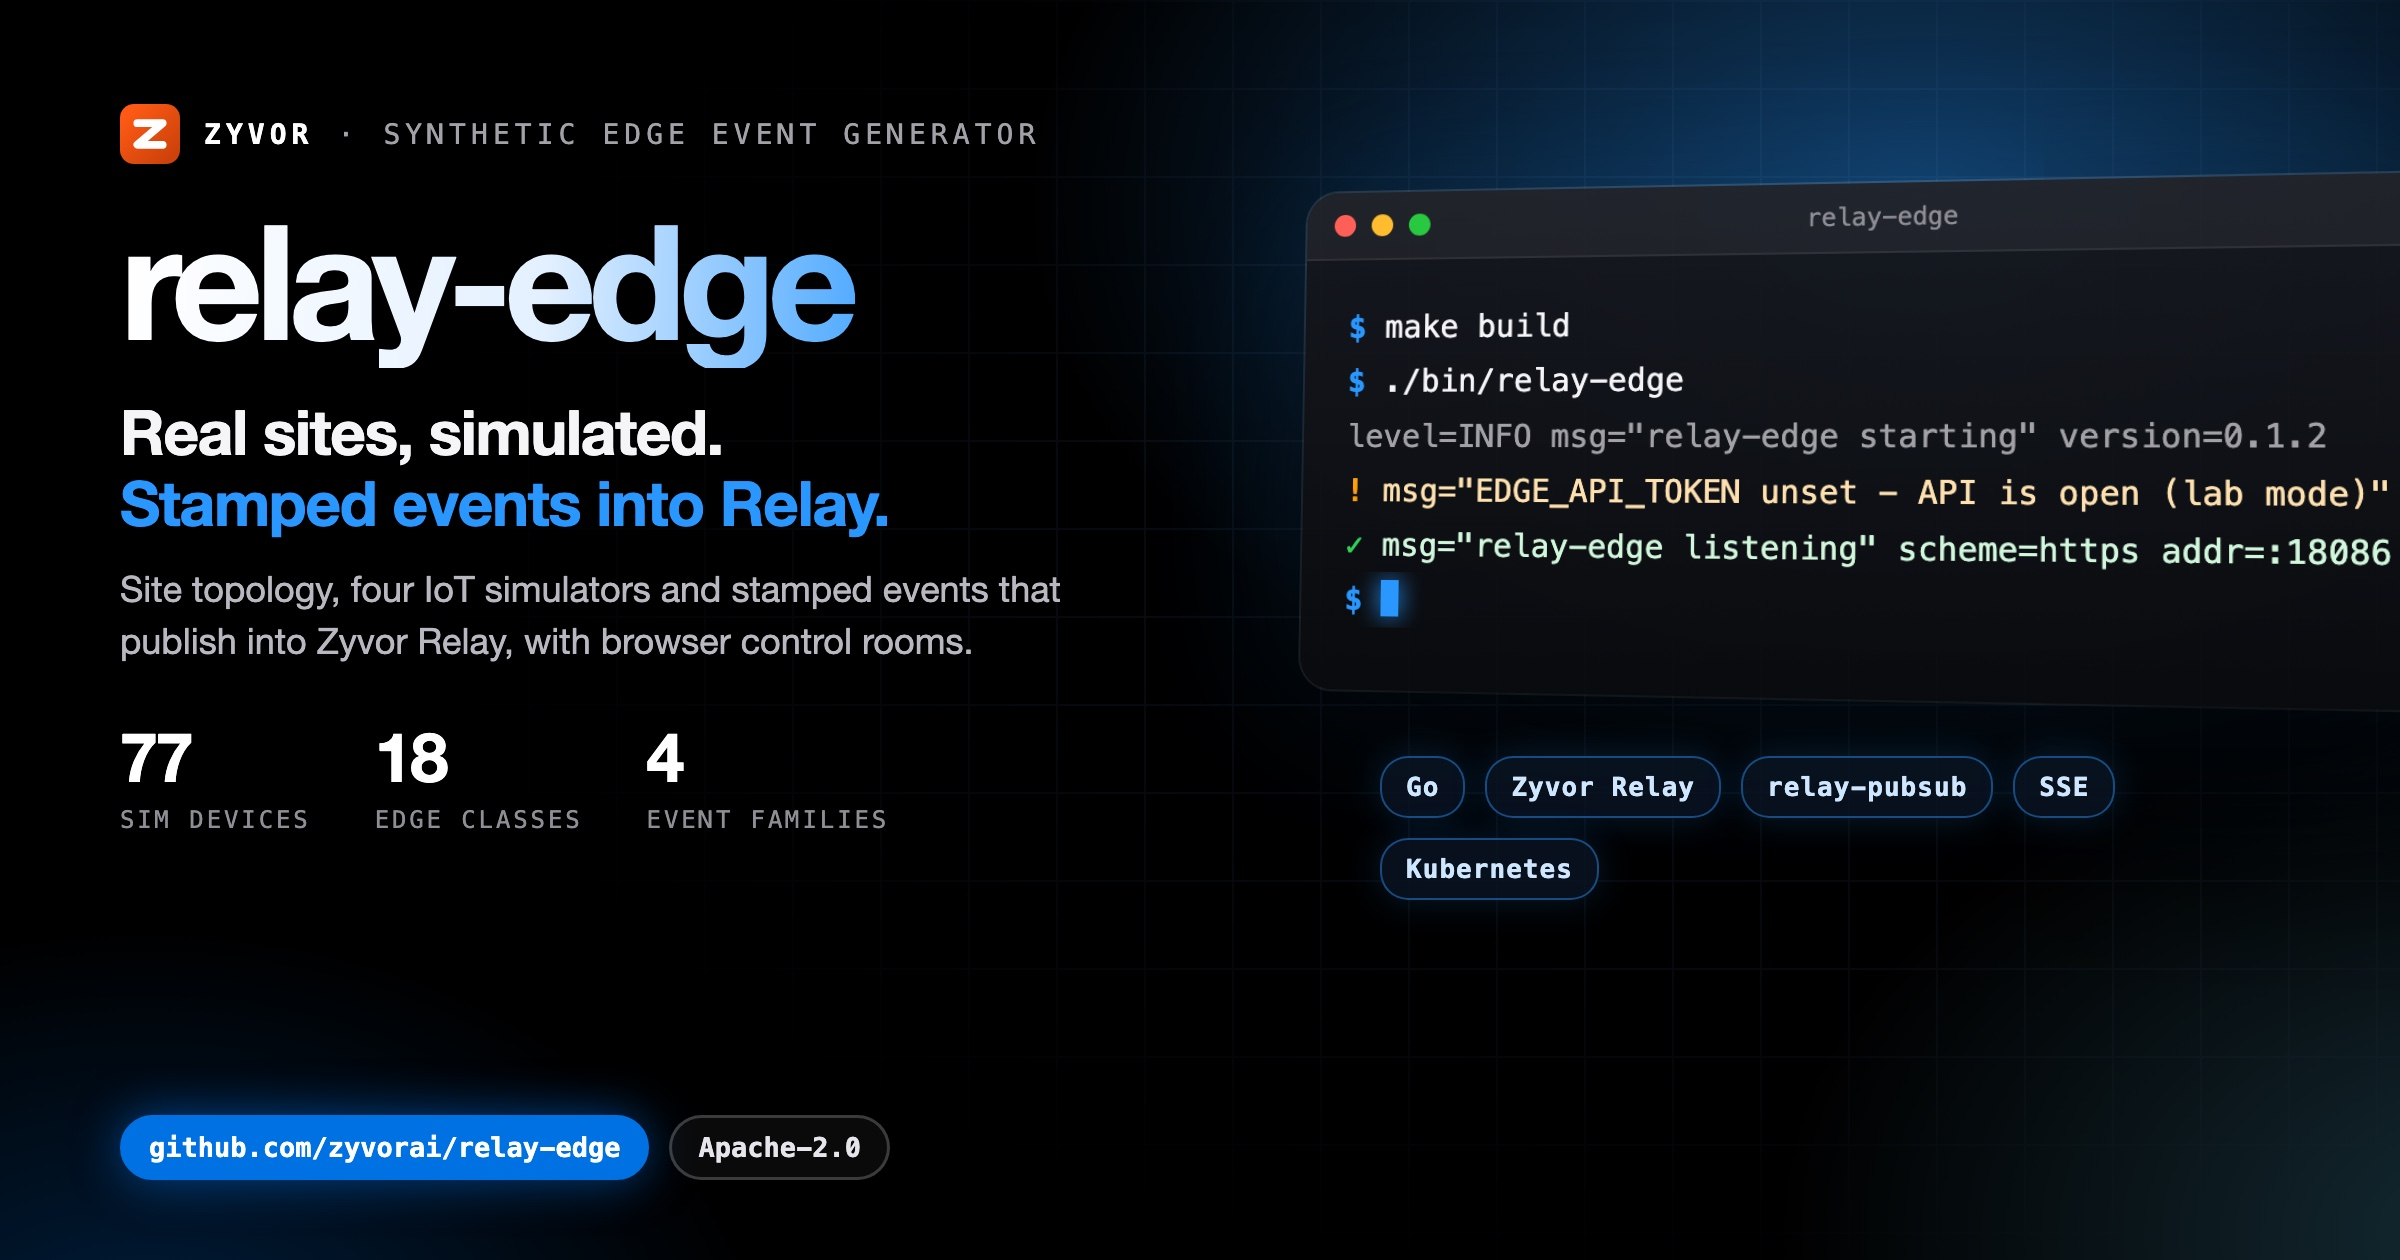
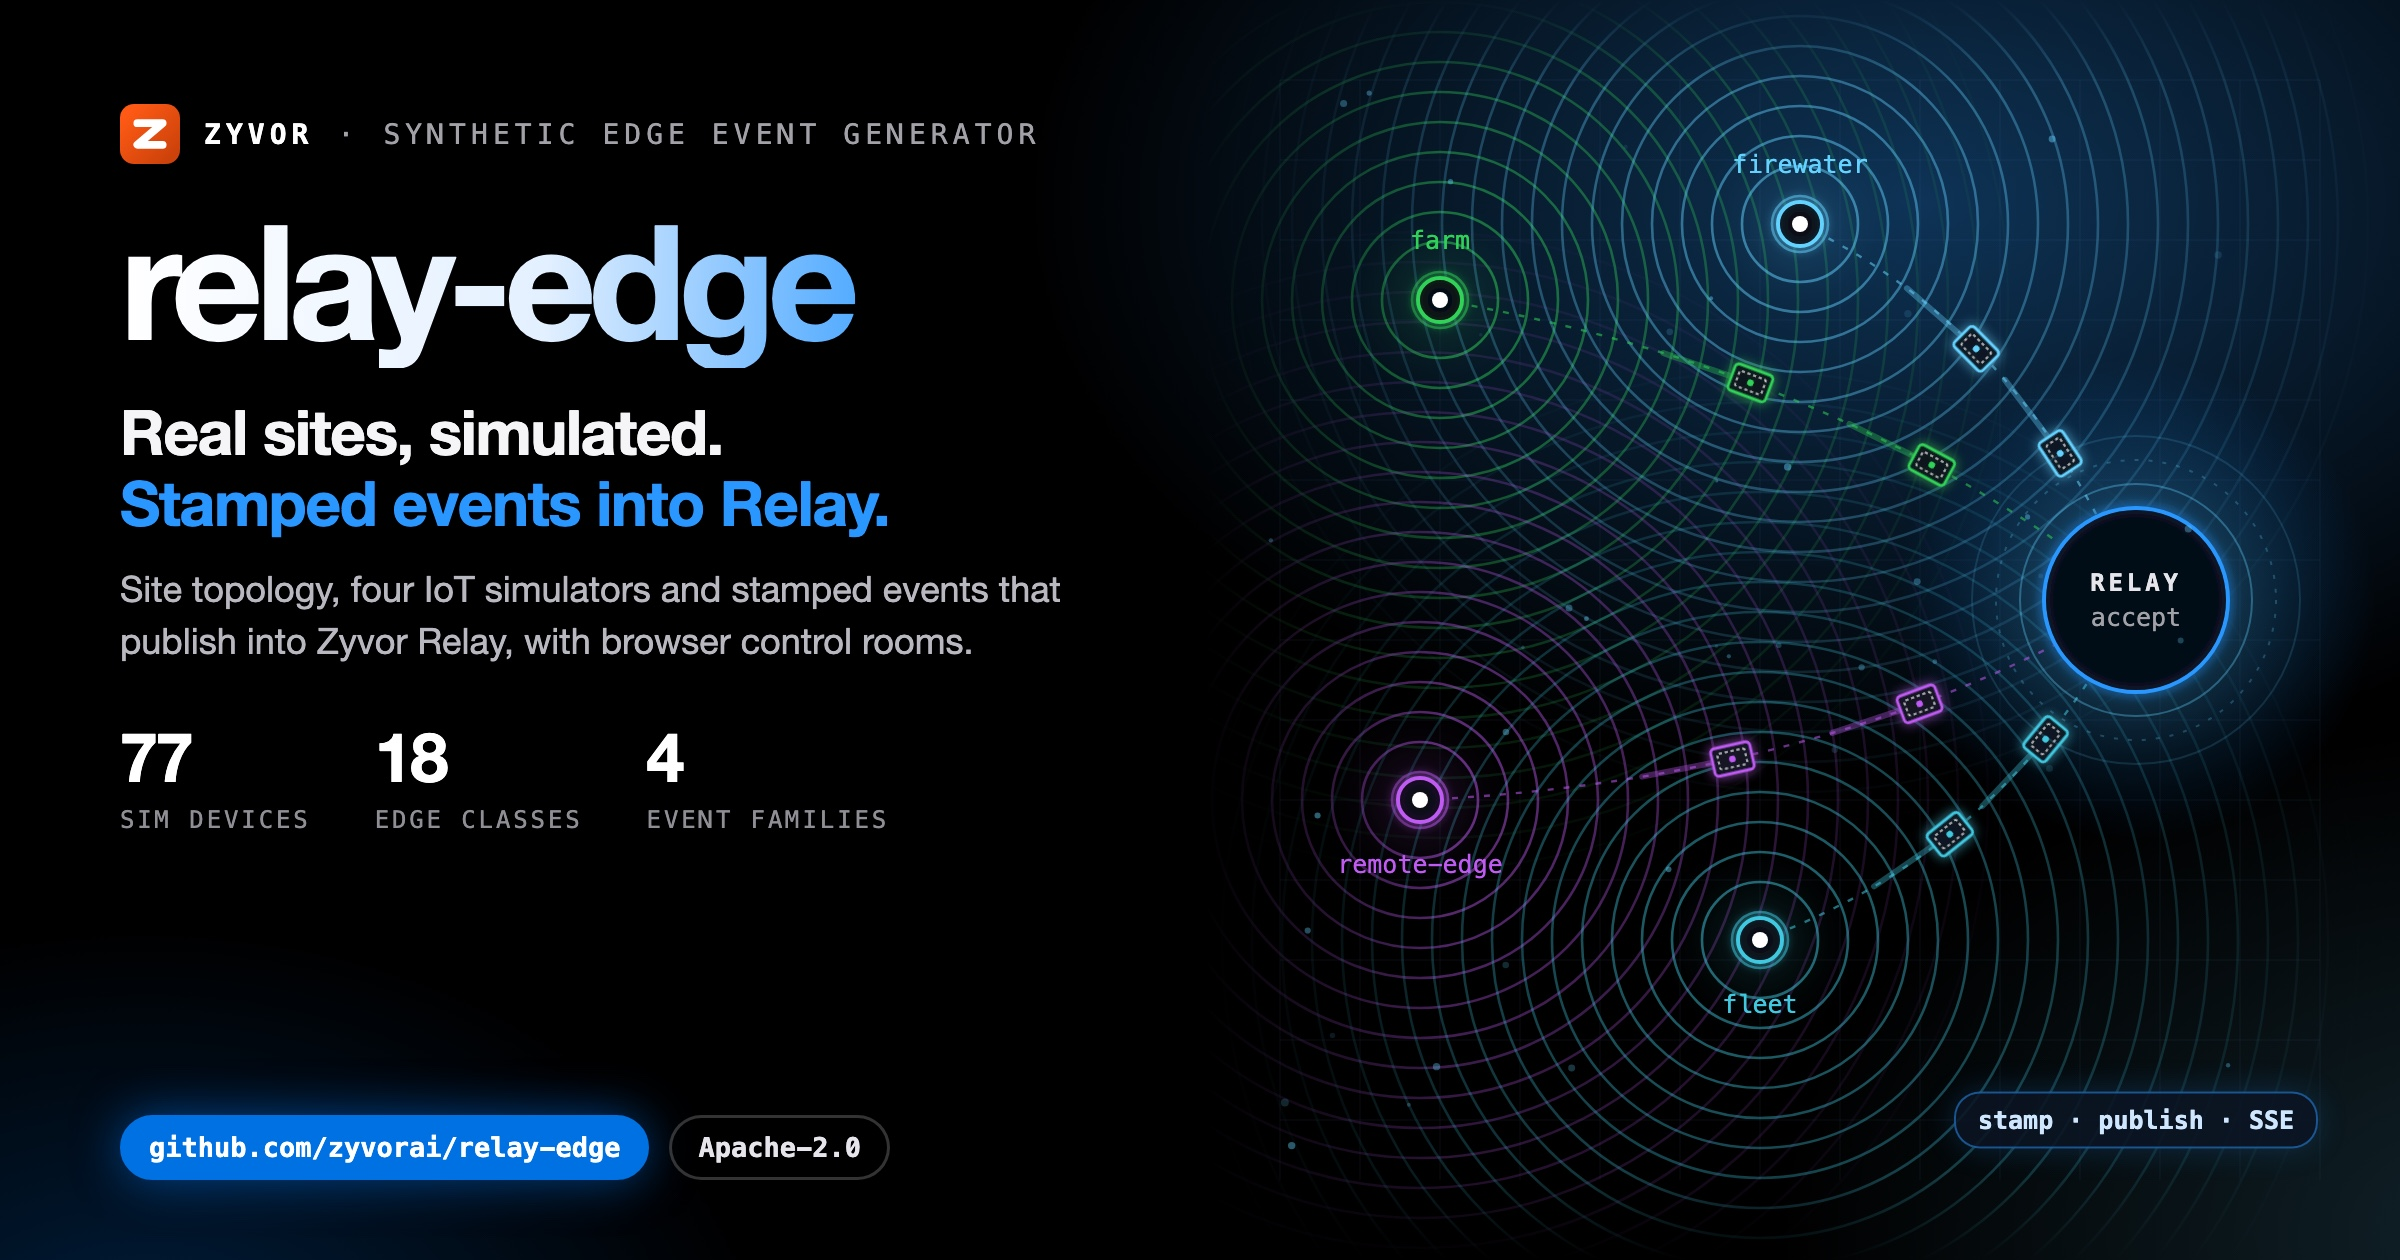
docs(social): unique illustrated hero card
Replace the shared terminal-window art with a motif drawn for this project;
same verified copy and stats on the left.

diff --git a/docs/social/relay-edge-hero-dark.html b/docs/social/relay-edge-hero-dark.html
@@ -8,58 +8,47 @@
   Build: ./docs/social/build-hero-dark.sh  ->  relay-edge-hero-dark.jpg (2400x1260)
 -->
 <style>
-  :root { --blue:#0071e3; --signal:#2997ff; --cyan:#64d2ff; --green:#30d158; --amber:#ff9f0a;
+  :root { --blue:#0071e3; --signal:#2997ff; --cyan:#64d2ff; --green:#30d158; --amber:#ff9f0a; --red:#ff453a; --violet:#bf5af2;
     --sans:'SF Pro Display','Helvetica Neue',Helvetica,Arial,sans-serif; --mono:'SF Mono',Menlo,Consolas,monospace; }
   * { box-sizing:border-box; }
   html,body { margin:0; padding:0; }
   body { width:1200px; height:630px; overflow:hidden; color:#f5f5f7; font-family:var(--sans); position:relative; background:#000; }
   .aurora { position:absolute; inset:0;
-    background:radial-gradient(720px 460px at 80% 16%, rgba(41,151,255,.40), transparent 62%),
-               radial-gradient(600px 420px at 104% 98%, rgba(100,210,255,.20), transparent 60%),
+    background:radial-gradient(720px 460px at 80% 16%, rgba(41,151,255,.34), transparent 62%),
+               radial-gradient(600px 420px at 104% 98%, rgba(100,210,255,.16), transparent 60%),
                radial-gradient(520px 380px at 6% 110%, rgba(0,113,227,.28), transparent 60%); }
-  .grid { position:absolute; inset:0; opacity:.09;
-    background-image:linear-gradient(rgba(120,180,255,.9) 1px,transparent 1px),linear-gradient(90deg,rgba(120,180,255,.9) 1px,transparent 1px);
-    background-size:44px 44px; -webkit-mask-image:radial-gradient(900px 520px at 72% 42%, #000 18%, transparent 75%); }
-  .left { position:absolute; left:60px; top:52px; width:560px; z-index:3; }
+  .copy { position:absolute; left:60px; top:52px; width:560px; z-index:3; }
   .brand { display:flex; align-items:center; gap:12px; font-family:var(--mono); font-size:14px; letter-spacing:.18em; text-transform:uppercase; color:#a1a1a6; }
   .brand b { color:#fff; }
   .word { margin:20px 0 0; font-size:80px; line-height:.95; font-weight:800; letter-spacing:-.05em; white-space:nowrap;
     background:linear-gradient(92deg,#fff 0%,#e3f0ff 38%,var(--signal) 74%,var(--cyan) 100%); -webkit-background-clip:text; background-clip:text; color:transparent; padding-bottom:6px; }
   .tag { margin:14px 0 0; font-size:31px; line-height:1.15; font-weight:700; letter-spacing:-.02em; }
   .tag em { font-style:normal; color:var(--signal); }
-  .lede { margin:12px 0 0; font-size:18px; line-height:1.45; color:#b8b8bf; width:520px; }
+  .lede { margin:12px 0 0; font-size:18px; line-height:1.45; color:#b8b8bf; width:520px; text-shadow:0 1px 12px #000; }
   .stats { margin-top:24px; display:flex; gap:32px; }
   .stat b { display:block; font-size:34px; font-weight:800; letter-spacing:-.03em; color:#fff; }
   .stat span { font-family:var(--mono); font-size:12px; letter-spacing:.12em; text-transform:uppercase; color:#8e8e93; }
   .pill { position:absolute; left:60px; bottom:40px; display:flex; gap:10px; z-index:3; }
-  .pill span { font-family:var(--mono); font-size:13.5px; font-weight:700; padding:7px 13px; border-radius:18px; border:1.5px solid rgba(255,255,255,.2); color:#e5e5ea; background:rgba(255,255,255,.04); }
+  .pill span { font-family:var(--mono); font-size:13.5px; font-weight:700; padding:7px 13px; border-radius:18px; border:1.5px solid rgba(255,255,255,.2); color:#e5e5ea; background:rgba(0,0,0,.6); }
   .pill span.b { background:var(--blue); border-color:var(--blue); color:#fff; box-shadow:0 0 24px rgba(0,113,227,.55); }
-
-  .right { position:absolute; left:652px; top:96px; width:560px; z-index:2; }
-  .win { position:relative; width:560px; border-radius:16px; overflow:hidden; z-index:2;
-    background:linear-gradient(180deg, rgba(22,24,30,.94), rgba(10,11,14,.96));
-    box-shadow:0 50px 100px rgba(0,0,0,.75), 0 0 0 1px rgba(255,255,255,.14), 0 0 90px rgba(41,151,255,.22);
-    transform:perspective(1600px) rotateY(-14deg) rotateX(4deg); transform-origin:left center; }
-  .bar { height:34px; display:flex; align-items:center; gap:8px; padding:0 14px; background:rgba(255,255,255,.05); border-bottom:1px solid rgba(255,255,255,.07); }
-  .bar i { width:11px; height:11px; border-radius:50%; background:#ff5f57; } .bar i:nth-child(2){background:#febc2e} .bar i:nth-child(3){background:#28c840}
-  .bar em { margin-left:auto; margin-right:auto; font-style:normal; font-family:var(--mono); font-size:12px; color:#8e8e93; transform:translateX(-24px); }
-  .term { min-height:214px; padding:20px 22px 24px; font-family:var(--mono); font-size:15.5px; line-height:1.75; }
-  .l { white-space:pre; overflow:hidden; text-overflow:ellipsis; color:#f5f5f7; }
-  .l .p { color:var(--signal); font-weight:700; }
-  .l.out { color:#a1a1a6; }
-  .l.cm { color:#6e6e73; }
-  .l.ok { color:#d1f7dc; } .l.ok span { color:var(--green); font-weight:700; }
-  .l.warn { color:#ffe1b0; } .l.warn span { color:var(--amber); font-weight:700; }
-  .cur { display:inline-block; width:9px; height:18px; background:var(--signal); vertical-align:-3px; box-shadow:0 0 12px var(--signal); }
-  .chips { margin:34px 0 0 38px; width:480px; display:flex; flex-wrap:wrap; gap:10px; position:relative; z-index:3; }
-  .chips span { font-family:var(--mono); font-size:13px; font-weight:700; letter-spacing:.04em; padding:7px 12px; border-radius:14px;
-    color:#cfe6ff; background:rgba(10,20,35,.82); border:1px solid rgba(41,151,255,.45); box-shadow:0 0 18px rgba(41,151,255,.18); }
+  .art { position:absolute; left:520px; top:0; width:680px; height:630px; z-index:2; }
+  .art svg { display:block; }
+  #labels { position:absolute; inset:0; z-index:4; pointer-events:none; }
+  .lbl { position:absolute; font-family:var(--mono); font-size:12.5px; color:#a1a1a6; text-align:center; transform:translate(-50%,-50%); white-space:nowrap; }
+  .lbl b { display:block; font-size:12px; letter-spacing:.16em; text-transform:uppercase; color:#e5e5ea; }
+  .lbl span { display:block; margin-top:3px; }
+  .lbl.box { padding:7px 12px; border-radius:12px; background:rgba(8,10,14,.85); border:1px solid rgba(255,255,255,.14); }
+  .lbl.chip { padding:6px 11px; border-radius:13px; font-size:12.5px; font-weight:700; color:#cfe6ff; background:rgba(10,20,35,.85); border:1px solid rgba(41,151,255,.5); box-shadow:0 0 16px rgba(41,151,255,.2); }
+  .lbl.left { transform:translate(0,-50%); text-align:left; }
+  .lbl.right { transform:translate(-100%,-50%); text-align:right; }
+  .ok { color:var(--green) !important; } .warn { color:var(--amber) !important; } .bad { color:var(--red) !important; } .sig { color:var(--signal) !important; } .cy { color:var(--cyan) !important; } .vi { color:var(--violet) !important; }
 </style>
 </head>
 <body>
 <div class="aurora"></div>
-<div class="grid"></div>
-<div class="left">
+<div class="art"><svg id="art" width="680" height="630" viewBox="0 0 680 630" xmlns="http://www.w3.org/2000/svg"></svg></div>
+<div id="labels"></div>
+<div class="copy">
   <div class="brand"><svg viewBox="0 0 64 64" width="30" height="30" aria-hidden="true"><defs><linearGradient id="zb" x1="8" y1="8" x2="56" y2="56" gradientUnits="userSpaceOnUse"><stop offset="0" stop-color="#ff5a15"/><stop offset="1" stop-color="#cc420a"/></linearGradient></defs><rect width="64" height="64" rx="15" fill="url(#zb)"/><path d="M18.5,20.5 45.5,20.5 18.5,43.5 45.5,43.5" fill="none" stroke="#fff" stroke-width="8.3" stroke-linecap="round" stroke-linejoin="round"/></svg><b>Zyvor</b><span>&middot;</span><span>Synthetic edge event generator</span></div>
   <div class="word">relay-edge</div>
   <div class="tag">Real sites, simulated.<br><em>Stamped events into Relay.</em></div>
@@ -67,8 +56,95 @@
   <div class="stats"><div class="stat"><b>77</b><span>sim devices</span></div><div class="stat"><b>18</b><span>edge classes</span></div><div class="stat"><b>4</b><span>event families</span></div></div>
 </div>
 <div class="pill"><span class="b">github.com/zyvorai/relay-edge</span><span>Apache-2.0</span></div>
-<div class="right"><div class="win"><div class="bar"><i></i><i></i><i></i><em>relay-edge</em></div>
-<div class="term"><div class="l"><span class="p">$</span> make build</div><div class="l"><span class="p">$</span> ./bin/relay-edge</div><div class="l out">level=INFO msg=&quot;relay-edge starting&quot; version=0.1.2</div><div class="l warn"><span>!</span> msg=&quot;EDGE_API_TOKEN unset - API is open (lab mode)&quot;</div><div class="l ok"><span>&#10003;</span> msg=&quot;relay-edge listening&quot; scheme=https addr=:18086</div><div class="l"><span class="p">$</span> <i class="cur"></i></div></div></div>
-<div class="chips"><span>Go</span><span>Zyvor Relay</span><span>relay-pubsub</span><span>SSE</span><span>Kubernetes</span></div></div>
+<script>
+var Z = (function () {
+  var NS = 'http://www.w3.org/2000/svg', svg = document.getElementById('art'), labels = document.getElementById('labels');
+  var seed = 20261004;
+  function rnd() { seed = (seed * 1103515245 + 12345) % 2147483648; return seed / 2147483648; }
+  function el(tag, a, parent) { var n = document.createElementNS(NS, tag); for (var k in a) n.setAttribute(k, a[k]); (parent || svg).appendChild(n); return n; }
+  function g(attrs) { return el('g', attrs || {}); }
+  function label(x, y, inner, cls, style) { var d = document.createElement('div'); d.className = 'lbl ' + (cls || ''); d.style.left = (520 + x) + 'px'; d.style.top = y + 'px'; if (style) d.setAttribute('style', d.getAttribute('style') + ';' + style); d.innerHTML = inner; labels.appendChild(d); return d; }
+  return { NS: NS, svg: svg, W: 680, H: 630, rnd: rnd, el: el, g: g, label: label,
+    reseed: function (s) { seed = s; },
+    c: { blue: '#0071e3', signal: '#2997ff', cyan: '#64d2ff', green: '#30d158', amber: '#ff9f0a', red: '#ff453a', violet: '#bf5af2', teal: '#40c8e0', indigo: '#5e5ce6', pink: '#ff375f', white: '#f5f5f7', grey: '#8e8e93' } };
+})();
+(function () {
+// relay-edge: four IoT simulators on a site map emit ripple waves that interfere; stamped events fly to Relay.
+var C = Z.c;
+var defs = Z.el('defs', {});
+defs.innerHTML = '<filter id="re-gl" x="-50%" y="-50%" width="200%" height="200%"><feGaussianBlur stdDeviation="3" result="b"/><feMerge><feMergeNode in="b"/><feMergeNode in="SourceGraphic"/></feMerge></filter>' +
+  '<filter id="re-sf" x="-50%" y="-50%" width="200%" height="200%"><feGaussianBlur stdDeviation="16"/></filter>' +
+  '<radialGradient id="re-relay"><stop offset="0" stop-color="#64d2ff" stop-opacity=".6"/><stop offset="1" stop-color="#0071e3" stop-opacity="0"/></radialGradient>' +
+  '<linearGradient id="re-fade" x1="0" y1="0" x2="1" y2="0"><stop offset="0" stop-color="#fff" stop-opacity="0"/><stop offset=".12" stop-color="#fff" stop-opacity="0"/><stop offset=".3" stop-color="#fff" stop-opacity="1"/><stop offset=".94" stop-color="#fff" stop-opacity="1"/><stop offset="1" stop-color="#fff" stop-opacity="0"/></linearGradient>' +
+  '<linearGradient id="re-fadev" x1="0" y1="0" x2="0" y2="1"><stop offset="0" stop-color="#fff" stop-opacity="0"/><stop offset=".07" stop-color="#fff" stop-opacity="1"/><stop offset=".93" stop-color="#fff" stop-opacity="1"/><stop offset="1" stop-color="#fff" stop-opacity="0"/></linearGradient>' +
+  '<mask id="re-mh" maskUnits="userSpaceOnUse" x="0" y="0" width="680" height="630"><rect width="680" height="630" fill="url(#re-fade)"/></mask>' +
+  '<mask id="re-mv" maskUnits="userSpaceOnUse" x="0" y="0" width="680" height="630"><rect width="680" height="630" fill="url(#re-fadev)"/></mask>';
+
+// faint site grid (zones)
+var grid = Z.g({ opacity: .5 });
+for (var x = 120; x <= 640; x += 40) Z.el('line', { x1: x, y1: 40, x2: x, y2: 590, stroke: 'rgba(120,185,255,.07)' }, grid);
+for (var y = 40; y <= 590; y += 40) Z.el('line', { x1: 120, y1: y, x2: 640, y2: y, stroke: 'rgba(120,185,255,.07)' }, grid);
+
+var sims = [
+  { n: 'farm', x: 200, y: 150, c: C.green, lx: 0, ly: -30 },
+  { n: 'firewater', x: 380, y: 112, c: C.cyan, lx: 0, ly: -30 },
+  { n: 'remote-edge', x: 190, y: 400, c: C.violet, lx: 0, ly: 32 },
+  { n: 'fleet', x: 360, y: 470, c: C.teal, lx: 0, ly: 32 }
+];
+var relay = { x: 548, y: 300 };
+
+// ripple waves with additive blending -> interference pattern
+var waves = Z.el('g', { style: 'mix-blend-mode:screen' }, Z.el('g', { mask: 'url(#re-mv)' }, Z.g({ mask: 'url(#re-mh)' })));
+sims.forEach(function (s) {
+  for (var r = 14; r < 300; r += 15) {
+    var op = Math.max(0, 0.55 * (1 - r / 300));
+    Z.el('circle', { cx: s.x, cy: s.y, r: r, fill: 'none', stroke: s.c, 'stroke-width': 1.3, opacity: op.toFixed(3) }, waves);
+  }
+});
+
+// relay halo
+Z.el('circle', { cx: relay.x, cy: relay.y, r: 120, fill: 'url(#re-relay)', opacity: .7 });
+
+// event paths from each simulator to Relay, with stamped event tiles along them
+sims.forEach(function (s, k) {
+  var mx = (s.x + relay.x) / 2 + (s.y < relay.y ? 30 : 30), my = (s.y + relay.y) / 2 + (s.y < relay.y ? -40 : 40);
+  var d = 'M' + s.x + ',' + s.y + ' Q' + mx + ',' + my + ' ' + relay.x + ',' + relay.y;
+  var p = Z.el('path', { d: d, fill: 'none', stroke: s.c, 'stroke-width': 1.2, 'stroke-dasharray': '3 5', opacity: .55 });
+  var L = p.getTotalLength();
+  [0.42, 0.68].forEach(function (t, j) {
+    var pt = p.getPointAtLength(L * t), pt2 = p.getPointAtLength(L * t - 2);
+    var ang = Math.atan2(pt.y - pt2.y, pt.x - pt2.x) * 180 / Math.PI;
+    // motion trail
+    var tail = p.getPointAtLength(Math.max(0, L * t - 46));
+    Z.el('line', { x1: tail.x, y1: tail.y, x2: pt.x, y2: pt.y, stroke: s.c, 'stroke-width': 3, 'stroke-linecap': 'round', opacity: .35 });
+    var gg = Z.g({ transform: 'translate(' + pt.x.toFixed(1) + ',' + pt.y.toFixed(1) + ') rotate(' + ang.toFixed(1) + ')', filter: 'url(#re-gl)' });
+    // envelope-like event card with perforated stamp edge
+    Z.el('rect', { x: -10, y: -7, width: 20, height: 14, rx: 2, fill: 'rgba(8,14,26,.95)', stroke: s.c, 'stroke-width': 1.4 }, gg);
+    Z.el('rect', { x: -7, y: -4, width: 14, height: 8, rx: 1, fill: 'none', stroke: '#fff', 'stroke-width': .8, 'stroke-dasharray': '1.5 1.5', opacity: .8 }, gg);
+    Z.el('circle', { cx: 0, cy: 0, r: 1.6, fill: s.c }, gg);
+  });
+});
+
+// simulator nodes
+sims.forEach(function (s) {
+  Z.el('circle', { cx: s.x, cy: s.y, r: 22, fill: s.c, opacity: .18, filter: 'url(#re-sf)' });
+  Z.el('circle', { cx: s.x, cy: s.y, r: 11, fill: 'rgba(6,10,18,.95)', stroke: s.c, 'stroke-width': 2, filter: 'url(#re-gl)' });
+  Z.el('circle', { cx: s.x, cy: s.y, r: 4, fill: '#fff' });
+  Z.label(s.x + s.lx, s.y + s.ly, '<span style="margin:0;color:' + s.c + '">' + s.n + '</span>');
+});
+
+// Relay node: stacked rings
+for (var i = 0; i < 3; i++) Z.el('circle', { cx: relay.x, cy: relay.y, r: 58 + i * 12, fill: 'none', stroke: 'rgba(100,210,255,' + (0.35 - i * 0.1) + ')', 'stroke-width': 1, 'stroke-dasharray': i === 1 ? '2 5' : 'none' });
+Z.el('circle', { cx: relay.x, cy: relay.y, r: 46, fill: 'rgba(6,10,18,.94)', stroke: C.signal, 'stroke-width': 2, filter: 'url(#re-gl)' });
+Z.label(relay.x, relay.y, '<b>Relay</b><span>accept</span>');
+
+// sparse telemetry dust
+for (var i = 0; i < 40; i++) {
+  var x = 110 + Z.rnd() * 520, y = 40 + Z.rnd() * 550;
+  Z.el('circle', { cx: x, cy: y, r: .8 + Z.rnd() * 1.2, fill: C.cyan, opacity: (0.1 + Z.rnd() * 0.35).toFixed(2) });
+}
+Z.label(548, 560, 'stamp &middot; publish &middot; SSE', 'chip');
+})();
+</script>
 </body>
 </html>
